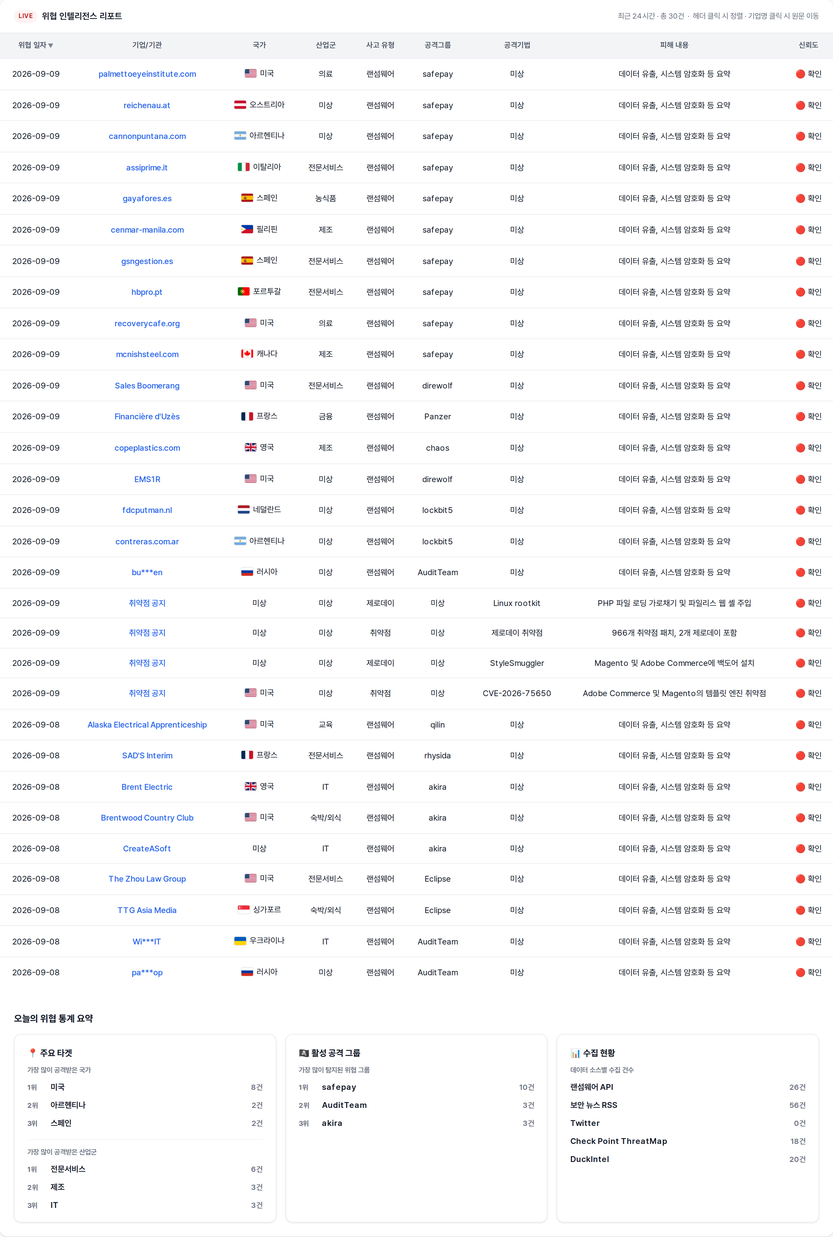
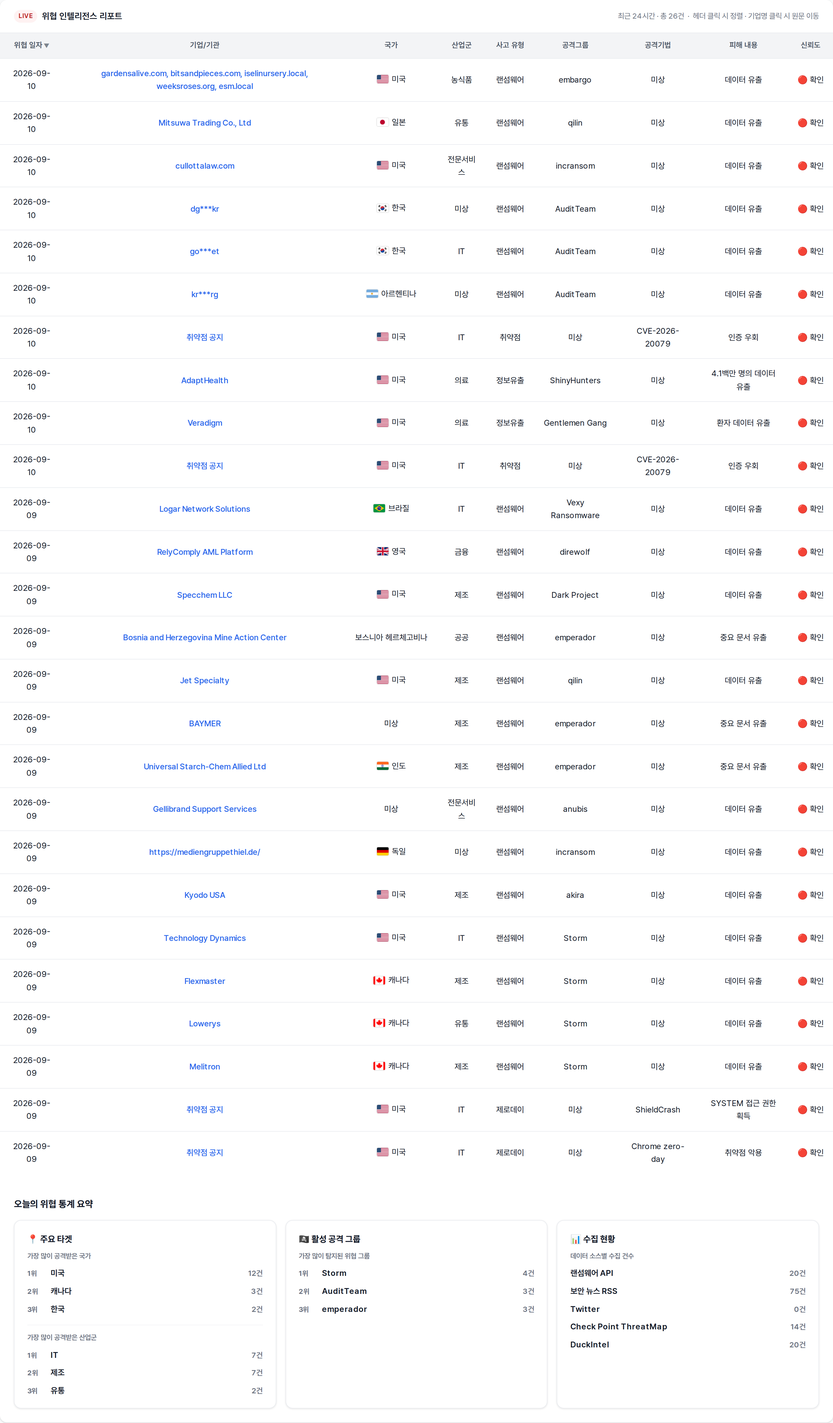
deploy: 9c533ad8fcaa3f846a31aadab046301a26f1192c

diff --git a/index.html b/index.html
@@ -3,7 +3,7 @@
 <head>
   <meta charset="UTF-8" />
   <meta name="viewport" content="width=device-width, initial-scale=1.0" />
-  <title>🚨 2026년 09월 09일 국내/해외 사이버 위협 현황</title>
+  <title>🚨 2026년 09월 10일 국내/해외 사이버 위협 현황</title>
   <link rel="preconnect" href="https://cdn.jsdelivr.net" />
   <link href="https://cdn.jsdelivr.net/gh/orioncactus/pretendard/dist/web/static/pretendard.css" rel="stylesheet" />
   <style>
@@ -253,7 +253,7 @@
 </head>
 <body>
   <div class="page-header">
-    <h1 class="page-title">🚨 2026년 09월 09일 국내/해외 사이버 위협 현황</h1>
+    <h1 class="page-title">🚨 2026년 09월 10일 국내/해외 사이버 위협 현황</h1>
   </div>
 
   <div class="dashboard">
@@ -261,42 +261,38 @@
     <div class="card-header">
       <span class="badge">LIVE</span>
       <span class="card-title">위협 인텔리전스 리포트</span>
-      <span class="card-count">최근 24시간 · 총 30건 &nbsp;·&nbsp; 헤더 클릭 시 정렬 · 기업명 클릭 시 원문 이동</span>
+      <span class="card-count">최근 24시간 · 총 26건 &nbsp;·&nbsp; 헤더 클릭 시 정렬 · 기업명 클릭 시 원문 이동</span>
     </div>
     <div class="table-wrap" style="overflow-x: auto; -webkit-overflow-scrolling: touch;">
       <table id="threat-table">
         <thead><tr><th onclick="sortTable(0)" data-col="0" class="sort-desc">위협 일자</th><th onclick="sortTable(1)" data-col="1">기업/기관</th><th onclick="sortTable(2)" data-col="2">국가</th><th onclick="sortTable(3)" data-col="3">산업군</th><th onclick="sortTable(4)" data-col="4">사고 유형</th><th onclick="sortTable(5)" data-col="5">공격그룹</th><th onclick="sortTable(6)" data-col="6">공격기법</th><th onclick="sortTable(7)" data-col="7">피해 내용</th><th onclick="sortTable(8)" data-col="8">신뢰도</th></tr></thead>
         <tbody>
-<tr><td>2026-09-09</td><td><a href="https://www.ransomware.live/id/cGFsbWV0dG9leWVpbnN0aXR1dGUuY29tQHNhZmVwYXk=" target="_blank" rel="noopener noreferrer">palmettoeyeinstitute.com</a></td><td class="country"><span class="country-cell"><img class="flag" src="https://flagcdn.com/w40/us.png" alt="미국" width="20" height="14" />미국</span></td><td>의료</td><td>랜섬웨어</td><td>safepay</td><td>미상</td><td>데이터 유출, 시스템 암호화 등 요약</td><td>🔴 확인</td></tr>
-<tr><td>2026-09-09</td><td><a href="https://www.ransomware.live/id/cmVpY2hlbmF1LmF0QHNhZmVwYXk=" target="_blank" rel="noopener noreferrer">reichenau.at</a></td><td class="country"><span class="country-cell"><img class="flag" src="https://flagcdn.com/w40/at.png" alt="오스트리아" width="20" height="14" />오스트리아</span></td><td>미상</td><td>랜섬웨어</td><td>safepay</td><td>미상</td><td>데이터 유출, 시스템 암호화 등 요약</td><td>🔴 확인</td></tr>
-<tr><td>2026-09-09</td><td><a href="https://www.ransomware.live/id/Y2Fubm9ucHVudGFuYS5jb21Ac2FmZXBheQ==" target="_blank" rel="noopener noreferrer">cannonpuntana.com</a></td><td class="country"><span class="country-cell"><img class="flag" src="https://flagcdn.com/w40/ar.png" alt="아르헨티나" width="20" height="14" />아르헨티나</span></td><td>미상</td><td>랜섬웨어</td><td>safepay</td><td>미상</td><td>데이터 유출, 시스템 암호화 등 요약</td><td>🔴 확인</td></tr>
-<tr><td>2026-09-09</td><td><a href="https://www.ransomware.live/id/YXNzaXByaW1lLml0QHNhZmVwYXk=" target="_blank" rel="noopener noreferrer">assiprime.it</a></td><td class="country"><span class="country-cell"><img class="flag" src="https://flagcdn.com/w40/it.png" alt="이탈리아" width="20" height="14" />이탈리아</span></td><td>전문서비스</td><td>랜섬웨어</td><td>safepay</td><td>미상</td><td>데이터 유출, 시스템 암호화 등 요약</td><td>🔴 확인</td></tr>
-<tr><td>2026-09-09</td><td><a href="https://www.ransomware.live/id/Z2F5YWZvcmVzLmVzQHNhZmVwYXk=" target="_blank" rel="noopener noreferrer">gayafores.es</a></td><td class="country"><span class="country-cell"><img class="flag" src="https://flagcdn.com/w40/es.png" alt="스페인" width="20" height="14" />스페인</span></td><td>농식품</td><td>랜섬웨어</td><td>safepay</td><td>미상</td><td>데이터 유출, 시스템 암호화 등 요약</td><td>🔴 확인</td></tr>
-<tr><td>2026-09-09</td><td><a href="https://www.ransomware.live/id/Y2VubWFyLW1hbmlsYS5jb21Ac2FmZXBheQ==" target="_blank" rel="noopener noreferrer">cenmar-manila.com</a></td><td class="country"><span class="country-cell"><img class="flag" src="https://flagcdn.com/w40/ph.png" alt="필리핀" width="20" height="14" />필리핀</span></td><td>제조</td><td>랜섬웨어</td><td>safepay</td><td>미상</td><td>데이터 유출, 시스템 암호화 등 요약</td><td>🔴 확인</td></tr>
-<tr><td>2026-09-09</td><td><a href="https://www.ransomware.live/id/Z3NuZ2VzdGlvbi5lc0BzYWZlcGF5" target="_blank" rel="noopener noreferrer">gsngestion.es</a></td><td class="country"><span class="country-cell"><img class="flag" src="https://flagcdn.com/w40/es.png" alt="스페인" width="20" height="14" />스페인</span></td><td>전문서비스</td><td>랜섬웨어</td><td>safepay</td><td>미상</td><td>데이터 유출, 시스템 암호화 등 요약</td><td>🔴 확인</td></tr>
-<tr><td>2026-09-09</td><td><a href="https://www.ransomware.live/id/aGJwcm8ucHRAc2FmZXBheQ==" target="_blank" rel="noopener noreferrer">hbpro.pt</a></td><td class="country"><span class="country-cell"><img class="flag" src="https://flagcdn.com/w40/pt.png" alt="포르투갈" width="20" height="14" />포르투갈</span></td><td>전문서비스</td><td>랜섬웨어</td><td>safepay</td><td>미상</td><td>데이터 유출, 시스템 암호화 등 요약</td><td>🔴 확인</td></tr>
-<tr><td>2026-09-09</td><td><a href="https://www.ransomware.live/id/cmVjb3ZlcnljYWZlLm9yZ0BzYWZlcGF5" target="_blank" rel="noopener noreferrer">recoverycafe.org</a></td><td class="country"><span class="country-cell"><img class="flag" src="https://flagcdn.com/w40/us.png" alt="미국" width="20" height="14" />미국</span></td><td>의료</td><td>랜섬웨어</td><td>safepay</td><td>미상</td><td>데이터 유출, 시스템 암호화 등 요약</td><td>🔴 확인</td></tr>
-<tr><td>2026-09-09</td><td><a href="https://www.ransomware.live/id/bWNuaXNoc3RlZWwuY29tQHNhZmVwYXk=" target="_blank" rel="noopener noreferrer">mcnishsteel.com</a></td><td class="country"><span class="country-cell"><img class="flag" src="https://flagcdn.com/w40/ca.png" alt="캐나다" width="20" height="14" />캐나다</span></td><td>제조</td><td>랜섬웨어</td><td>safepay</td><td>미상</td><td>데이터 유출, 시스템 암호화 등 요약</td><td>🔴 확인</td></tr>
-<tr><td>2026-09-09</td><td><a href="https://www.ransomware.live/id/U2FsZXMgQm9vbWVyYW5nQGRpcmV3b2xm" target="_blank" rel="noopener noreferrer">Sales Boomerang</a></td><td class="country"><span class="country-cell"><img class="flag" src="https://flagcdn.com/w40/us.png" alt="미국" width="20" height="14" />미국</span></td><td>전문서비스</td><td>랜섬웨어</td><td>direwolf</td><td>미상</td><td>데이터 유출, 시스템 암호화 등 요약</td><td>🔴 확인</td></tr>
-<tr><td>2026-09-09</td><td><a href="https://www.ransomware.live/id/RmluYW5jacOocmUgZCdVesOoc0BQYW56ZXI=" target="_blank" rel="noopener noreferrer">Financière d&#x27;Uzès</a></td><td class="country"><span class="country-cell"><img class="flag" src="https://flagcdn.com/w40/fr.png" alt="프랑스" width="20" height="14" />프랑스</span></td><td>금융</td><td>랜섬웨어</td><td>Panzer</td><td>미상</td><td>데이터 유출, 시스템 암호화 등 요약</td><td>🔴 확인</td></tr>
-<tr><td>2026-09-09</td><td><a href="https://www.ransomware.live/id/Y29wZXBsYXN0aWNzLmNvbUBjaGFvcw==" target="_blank" rel="noopener noreferrer">copeplastics.com</a></td><td class="country"><span class="country-cell"><img class="flag" src="https://flagcdn.com/w40/gb.png" alt="영국" width="20" height="14" />영국</span></td><td>제조</td><td>랜섬웨어</td><td>chaos</td><td>미상</td><td>데이터 유출, 시스템 암호화 등 요약</td><td>🔴 확인</td></tr>
-<tr><td>2026-09-09</td><td><a href="https://www.ransomware.live/id/RU1TMVJAZGlyZXdvbGY=" target="_blank" rel="noopener noreferrer">EMS1R</a></td><td class="country"><span class="country-cell"><img class="flag" src="https://flagcdn.com/w40/us.png" alt="미국" width="20" height="14" />미국</span></td><td>미상</td><td>랜섬웨어</td><td>direwolf</td><td>미상</td><td>데이터 유출, 시스템 암호화 등 요약</td><td>🔴 확인</td></tr>
-<tr><td>2026-09-09</td><td><a href="https://www.ransomware.live/id/ZmRjcHV0bWFuLm5sQGxvY2tiaXQ1" target="_blank" rel="noopener noreferrer">fdcputman.nl</a></td><td class="country"><span class="country-cell"><img class="flag" src="https://flagcdn.com/w40/nl.png" alt="네덜란드" width="20" height="14" />네덜란드</span></td><td>미상</td><td>랜섬웨어</td><td>lockbit5</td><td>미상</td><td>데이터 유출, 시스템 암호화 등 요약</td><td>🔴 확인</td></tr>
-<tr><td>2026-09-09</td><td><a href="https://www.ransomware.live/id/Y29udHJlcmFzLmNvbS5hckBsb2NrYml0NQ==" target="_blank" rel="noopener noreferrer">contreras.com.ar</a></td><td class="country"><span class="country-cell"><img class="flag" src="https://flagcdn.com/w40/ar.png" alt="아르헨티나" width="20" height="14" />아르헨티나</span></td><td>미상</td><td>랜섬웨어</td><td>lockbit5</td><td>미상</td><td>데이터 유출, 시스템 암호화 등 요약</td><td>🔴 확인</td></tr>
-<tr><td>2026-09-09</td><td><a href="https://www.ransomware.live/id/YnUqKiplbkBBdWRpdFRlYW0=" target="_blank" rel="noopener noreferrer">bu***en</a></td><td class="country"><span class="country-cell"><img class="flag" src="https://flagcdn.com/w40/ru.png" alt="러시아" width="20" height="14" />러시아</span></td><td>미상</td><td>랜섬웨어</td><td>AuditTeam</td><td>미상</td><td>데이터 유출, 시스템 암호화 등 요약</td><td>🔴 확인</td></tr>
-<tr><td>2026-09-09</td><td><a href="https://www.bleepingcomputer.com/news/security/hackers-breach-f5-big-ip-apm-devices-to-deploy-linux-rootkit/" target="_blank" rel="noopener noreferrer">취약점 공지</a></td><td class="country"><span class="country-cell">미상</span></td><td>미상</td><td>제로데이</td><td>미상</td><td>Linux rootkit</td><td>PHP 파일 로딩 가로채기 및 파일리스 웹 셸 주입</td><td>🔴 확인</td></tr>
-<tr><td>2026-09-09</td><td><a href="https://www.bleepingcomputer.com/news/microsoft/microsoft-september-2026-patch-tuesday-fixes-966-flaws-2-zero-days/" target="_blank" rel="noopener noreferrer">취약점 공지</a></td><td class="country"><span class="country-cell">미상</span></td><td>미상</td><td>취약점</td><td>미상</td><td>제로데이 취약점</td><td>966개 취약점 패치, 2개 제로데이 포함</td><td>🔴 확인</td></tr>
-<tr><td>2026-09-09</td><td><a href="https://www.bleepingcomputer.com/news/security/adobe-fixes-critical-magento-zero-day-exploited-to-backdoor-servers/" target="_blank" rel="noopener noreferrer">취약점 공지</a></td><td class="country"><span class="country-cell">미상</span></td><td>미상</td><td>제로데이</td><td>미상</td><td>StyleSmuggler</td><td>Magento 및 Adobe Commerce에 백도어 설치</td><td>🔴 확인</td></tr>
-<tr><td>2026-09-09</td><td><a href="https://nvd.nist.gov/vuln/detail/CVE-2026-75650" target="_blank" rel="noopener noreferrer">취약점 공지</a></td><td class="country"><span class="country-cell"><img class="flag" src="https://flagcdn.com/w40/us.png" alt="미국" width="20" height="14" />미국</span></td><td>미상</td><td>취약점</td><td>미상</td><td>CVE-2026-75650</td><td>Adobe Commerce 및 Magento의 템플릿 엔진 취약점</td><td>🔴 확인</td></tr>
-<tr><td>2026-09-08</td><td><a href="https://www.ransomware.live/id/QWxhc2thIEVsZWN0cmljYWwgQXBwcmVudGljZXNoaXBAcWlsaW4=" target="_blank" rel="noopener noreferrer">Alaska Electrical Apprenticeship</a></td><td class="country"><span class="country-cell"><img class="flag" src="https://flagcdn.com/w40/us.png" alt="미국" width="20" height="14" />미국</span></td><td>교육</td><td>랜섬웨어</td><td>qilin</td><td>미상</td><td>데이터 유출, 시스템 암호화 등 요약</td><td>🔴 확인</td></tr>
-<tr><td>2026-09-08</td><td><a href="https://www.ransomware.live/id/U0FEJ1MgSW50ZXJpbUByaHlzaWRh" target="_blank" rel="noopener noreferrer">SAD&#x27;S Interim</a></td><td class="country"><span class="country-cell"><img class="flag" src="https://flagcdn.com/w40/fr.png" alt="프랑스" width="20" height="14" />프랑스</span></td><td>전문서비스</td><td>랜섬웨어</td><td>rhysida</td><td>미상</td><td>데이터 유출, 시스템 암호화 등 요약</td><td>🔴 확인</td></tr>
-<tr><td>2026-09-08</td><td><a href="https://www.ransomware.live/id/QnJlbnQgRWxlY3RyaWNAYWtpcmE=" target="_blank" rel="noopener noreferrer">Brent Electric</a></td><td class="country"><span class="country-cell"><img class="flag" src="https://flagcdn.com/w40/gb.png" alt="영국" width="20" height="14" />영국</span></td><td>IT</td><td>랜섬웨어</td><td>akira</td><td>미상</td><td>데이터 유출, 시스템 암호화 등 요약</td><td>🔴 확인</td></tr>
-<tr><td>2026-09-08</td><td><a href="https://www.ransomware.live/id/QnJlbnR3b29kIENvdW50cnkgQ2x1YkBha2lyYQ==" target="_blank" rel="noopener noreferrer">Brentwood Country Club</a></td><td class="country"><span class="country-cell"><img class="flag" src="https://flagcdn.com/w40/us.png" alt="미국" width="20" height="14" />미국</span></td><td>숙박/외식</td><td>랜섬웨어</td><td>akira</td><td>미상</td><td>데이터 유출, 시스템 암호화 등 요약</td><td>🔴 확인</td></tr>
-<tr><td>2026-09-08</td><td><a href="https://www.ransomware.live/id/Q3JlYXRlQVNvZnRAYWtpcmE=" target="_blank" rel="noopener noreferrer">CreateASoft</a></td><td class="country"><span class="country-cell">미상</span></td><td>IT</td><td>랜섬웨어</td><td>akira</td><td>미상</td><td>데이터 유출, 시스템 암호화 등 요약</td><td>🔴 확인</td></tr>
-<tr><td>2026-09-08</td><td><a href="https://www.ransomware.live/id/VGhlIFpob3UgTGF3IEdyb3VwQEVjbGlwc2U=" target="_blank" rel="noopener noreferrer">The Zhou Law Group</a></td><td class="country"><span class="country-cell"><img class="flag" src="https://flagcdn.com/w40/us.png" alt="미국" width="20" height="14" />미국</span></td><td>전문서비스</td><td>랜섬웨어</td><td>Eclipse</td><td>미상</td><td>데이터 유출, 시스템 암호화 등 요약</td><td>🔴 확인</td></tr>
-<tr><td>2026-09-08</td><td><a href="https://www.ransomware.live/id/VFRHIEFzaWEgTWVkaWFARWNsaXBzZQ==" target="_blank" rel="noopener noreferrer">TTG Asia Media</a></td><td class="country"><span class="country-cell"><img class="flag" src="https://flagcdn.com/w40/sg.png" alt="싱가포르" width="20" height="14" />싱가포르</span></td><td>숙박/외식</td><td>랜섬웨어</td><td>Eclipse</td><td>미상</td><td>데이터 유출, 시스템 암호화 등 요약</td><td>🔴 확인</td></tr>
-<tr><td>2026-09-08</td><td><a href="https://www.ransomware.live/id/V2kqKipJVEBBdWRpdFRlYW0=" target="_blank" rel="noopener noreferrer">Wi***IT</a></td><td class="country"><span class="country-cell"><img class="flag" src="https://flagcdn.com/w40/ua.png" alt="우크라이나" width="20" height="14" />우크라이나</span></td><td>IT</td><td>랜섬웨어</td><td>AuditTeam</td><td>미상</td><td>데이터 유출, 시스템 암호화 등 요약</td><td>🔴 확인</td></tr>
-<tr><td>2026-09-08</td><td><a href="https://www.ransomware.live/id/cGEqKipvcEBBdWRpdFRlYW0=" target="_blank" rel="noopener noreferrer">pa***op</a></td><td class="country"><span class="country-cell"><img class="flag" src="https://flagcdn.com/w40/ru.png" alt="러시아" width="20" height="14" />러시아</span></td><td>미상</td><td>랜섬웨어</td><td>AuditTeam</td><td>미상</td><td>데이터 유출, 시스템 암호화 등 요약</td><td>🔴 확인</td></tr>
+<tr><td>2026-09-10</td><td><a href="https://www.ransomware.live/id/Z2FyZGVuc2FsaXZlLmNvbSwgYml0c2FuZHBpZWNlcy5jb20sIGlzZWxpbnVyc2VyeS5sb2NhbCwgd2Vla3Nyb3Nlcy5vcmcsIGVzbS5sb2NhbEBlbWJhcmdv" target="_blank" rel="noopener noreferrer">gardensalive.com, bitsandpieces.com, iselinursery.local, weeksroses.org, esm.local</a></td><td class="country"><span class="country-cell"><img class="flag" src="https://flagcdn.com/w40/us.png" alt="미국" width="20" height="14" />미국</span></td><td>농식품</td><td>랜섬웨어</td><td>embargo</td><td>미상</td><td>데이터 유출</td><td>🔴 확인</td></tr>
+<tr><td>2026-09-10</td><td><a href="https://www.ransomware.live/id/TWl0c3V3YSBUcmFkaW5nIENvLiwgTHRkQHFpbGlu" target="_blank" rel="noopener noreferrer">Mitsuwa Trading Co., Ltd</a></td><td class="country"><span class="country-cell"><img class="flag" src="https://flagcdn.com/w40/jp.png" alt="일본" width="20" height="14" />일본</span></td><td>유통</td><td>랜섬웨어</td><td>qilin</td><td>미상</td><td>데이터 유출</td><td>🔴 확인</td></tr>
+<tr><td>2026-09-10</td><td><a href="https://www.ransomware.live/id/Y3VsbG90dGFsYXcuY29tQGluY3JhbnNvbQ==" target="_blank" rel="noopener noreferrer">cullottalaw.com</a></td><td class="country"><span class="country-cell"><img class="flag" src="https://flagcdn.com/w40/us.png" alt="미국" width="20" height="14" />미국</span></td><td>전문서비스</td><td>랜섬웨어</td><td>incransom</td><td>미상</td><td>데이터 유출</td><td>🔴 확인</td></tr>
+<tr><td>2026-09-10</td><td><a href="https://www.ransomware.live/id/ZGcqKiprckBBdWRpdFRlYW0=" target="_blank" rel="noopener noreferrer">dg***kr</a></td><td class="country"><span class="country-cell"><img class="flag" src="https://flagcdn.com/w40/kr.png" alt="한국" width="20" height="14" />한국</span></td><td>미상</td><td>랜섬웨어</td><td>AuditTeam</td><td>미상</td><td>데이터 유출</td><td>🔴 확인</td></tr>
+<tr><td>2026-09-10</td><td><a href="https://www.ransomware.live/id/Z28qKipldEBBdWRpdFRlYW0=" target="_blank" rel="noopener noreferrer">go***et</a></td><td class="country"><span class="country-cell"><img class="flag" src="https://flagcdn.com/w40/kr.png" alt="한국" width="20" height="14" />한국</span></td><td>IT</td><td>랜섬웨어</td><td>AuditTeam</td><td>미상</td><td>데이터 유출</td><td>🔴 확인</td></tr>
+<tr><td>2026-09-10</td><td><a href="https://www.ransomware.live/id/a3IqKipyZ0BBdWRpdFRlYW0=" target="_blank" rel="noopener noreferrer">kr***rg</a></td><td class="country"><span class="country-cell"><img class="flag" src="https://flagcdn.com/w40/ar.png" alt="아르헨티나" width="20" height="14" />아르헨티나</span></td><td>미상</td><td>랜섬웨어</td><td>AuditTeam</td><td>미상</td><td>데이터 유출</td><td>🔴 확인</td></tr>
+<tr><td>2026-09-10</td><td><a href="https://www.bleepingcomputer.com/news/security/cisco-confirms-cve-2026-20079-secure-fmc-flaw-exploited-in-attacks/" target="_blank" rel="noopener noreferrer">취약점 공지</a></td><td class="country"><span class="country-cell"><img class="flag" src="https://flagcdn.com/w40/us.png" alt="미국" width="20" height="14" />미국</span></td><td>IT</td><td>취약점</td><td>미상</td><td>CVE-2026-20079</td><td>인증 우회</td><td>🔴 확인</td></tr>
+<tr><td>2026-09-10</td><td><a href="https://www.bleepingcomputer.com/news/security/adapthealth-confirms-41-million-people-exposed-in-july-cyberattack/" target="_blank" rel="noopener noreferrer">AdaptHealth</a></td><td class="country"><span class="country-cell"><img class="flag" src="https://flagcdn.com/w40/us.png" alt="미국" width="20" height="14" />미국</span></td><td>의료</td><td>정보유출</td><td>ShinyHunters</td><td>미상</td><td>4.1백만 명의 데이터 유출</td><td>🔴 확인</td></tr>
+<tr><td>2026-09-10</td><td><a href="https://www.bleepingcomputer.com/news/security/veradigm-discloses-patient-data-breach-after-gentlemen-gang-claims-attack/" target="_blank" rel="noopener noreferrer">Veradigm</a></td><td class="country"><span class="country-cell"><img class="flag" src="https://flagcdn.com/w40/us.png" alt="미국" width="20" height="14" />미국</span></td><td>의료</td><td>정보유출</td><td>Gentlemen Gang</td><td>미상</td><td>환자 데이터 유출</td><td>🔴 확인</td></tr>
+<tr><td>2026-09-10</td><td><a href="https://nvd.nist.gov/vuln/detail/CVE-2026-20079" target="_blank" rel="noopener noreferrer">취약점 공지</a></td><td class="country"><span class="country-cell"><img class="flag" src="https://flagcdn.com/w40/us.png" alt="미국" width="20" height="14" />미국</span></td><td>IT</td><td>취약점</td><td>미상</td><td>CVE-2026-20079</td><td>인증 우회</td><td>🔴 확인</td></tr>
+<tr><td>2026-09-09</td><td><a href="https://www.ransomware.live/id/TG9nYXIgTmV0d29yayBTb2x1dGlvbnNAVmV4eSBSYW5zb213YXJl" target="_blank" rel="noopener noreferrer">Logar Network Solutions</a></td><td class="country"><span class="country-cell"><img class="flag" src="https://flagcdn.com/w40/br.png" alt="브라질" width="20" height="14" />브라질</span></td><td>IT</td><td>랜섬웨어</td><td>Vexy Ransomware</td><td>미상</td><td>데이터 유출</td><td>🔴 확인</td></tr>
+<tr><td>2026-09-09</td><td><a href="https://www.ransomware.live/id/UmVseUNvbXBseSBBTUwgUGxhdGZvcm1AZGlyZXdvbGY=" target="_blank" rel="noopener noreferrer">RelyComply AML Platform</a></td><td class="country"><span class="country-cell"><img class="flag" src="https://flagcdn.com/w40/gb.png" alt="영국" width="20" height="14" />영국</span></td><td>금융</td><td>랜섬웨어</td><td>direwolf</td><td>미상</td><td>데이터 유출</td><td>🔴 확인</td></tr>
+<tr><td>2026-09-09</td><td><a href="https://www.ransomware.live/id/U3BlY2NoZW0gTExDQERhcmsgUHJvamVjdA==" target="_blank" rel="noopener noreferrer">Specchem LLC</a></td><td class="country"><span class="country-cell"><img class="flag" src="https://flagcdn.com/w40/us.png" alt="미국" width="20" height="14" />미국</span></td><td>제조</td><td>랜섬웨어</td><td>Dark Project</td><td>미상</td><td>데이터 유출</td><td>🔴 확인</td></tr>
+<tr><td>2026-09-09</td><td><a href="https://www.ransomware.live/id/Qm9zbmlhIGFuZCBIZXJ6ZWdvdmluYSBNaW5lIEFjdGlvbiBDZW50ZXJAZW1wZXJhZG9y" target="_blank" rel="noopener noreferrer">Bosnia and Herzegovina Mine Action Center</a></td><td class="country"><span class="country-cell">보스니아 헤르체고비나</span></td><td>공공</td><td>랜섬웨어</td><td>emperador</td><td>미상</td><td>중요 문서 유출</td><td>🔴 확인</td></tr>
+<tr><td>2026-09-09</td><td><a href="https://www.ransomware.live/id/SmV0IFNwZWNpYWx0eUBxaWxpbg==" target="_blank" rel="noopener noreferrer">Jet Specialty</a></td><td class="country"><span class="country-cell"><img class="flag" src="https://flagcdn.com/w40/us.png" alt="미국" width="20" height="14" />미국</span></td><td>제조</td><td>랜섬웨어</td><td>qilin</td><td>미상</td><td>데이터 유출</td><td>🔴 확인</td></tr>
+<tr><td>2026-09-09</td><td><a href="https://www.ransomware.live/id/QkFZTUVSQGVtcGVyYWRvcg==" target="_blank" rel="noopener noreferrer">BAYMER</a></td><td class="country"><span class="country-cell">미상</span></td><td>제조</td><td>랜섬웨어</td><td>emperador</td><td>미상</td><td>중요 문서 유출</td><td>🔴 확인</td></tr>
+<tr><td>2026-09-09</td><td><a href="https://www.ransomware.live/id/VW5pdmVyc2FsIFN0YXJjaC1DaGVtIEFsbGllZCBMdGRAZW1wZXJhZG9y" target="_blank" rel="noopener noreferrer">Universal Starch-Chem Allied Ltd</a></td><td class="country"><span class="country-cell"><img class="flag" src="https://flagcdn.com/w40/in.png" alt="인도" width="20" height="14" />인도</span></td><td>제조</td><td>랜섬웨어</td><td>emperador</td><td>미상</td><td>중요 문서 유출</td><td>🔴 확인</td></tr>
+<tr><td>2026-09-09</td><td><a href="https://www.ransomware.live/id/R2VsbGlicmFuZCBTdXBwb3J0IFNlcnZpY2VzQGFudWJpcw==" target="_blank" rel="noopener noreferrer">Gellibrand Support Services</a></td><td class="country"><span class="country-cell">미상</span></td><td>전문서비스</td><td>랜섬웨어</td><td>anubis</td><td>미상</td><td>데이터 유출</td><td>🔴 확인</td></tr>
+<tr><td>2026-09-09</td><td><a href="https://www.ransomware.live/id/aHR0cHM6Ly9tZWRpZW5ncnVwcGV0aGllbC5kZS9AaW5jcmFuc29t" target="_blank" rel="noopener noreferrer">https://mediengruppethiel.de/</a></td><td class="country"><span class="country-cell"><img class="flag" src="https://flagcdn.com/w40/de.png" alt="독일" width="20" height="14" />독일</span></td><td>미상</td><td>랜섬웨어</td><td>incransom</td><td>미상</td><td>데이터 유출</td><td>🔴 확인</td></tr>
+<tr><td>2026-09-09</td><td><a href="https://www.ransomware.live/id/S3lvZG8gVVNBQGFraXJh" target="_blank" rel="noopener noreferrer">Kyodo USA</a></td><td class="country"><span class="country-cell"><img class="flag" src="https://flagcdn.com/w40/us.png" alt="미국" width="20" height="14" />미국</span></td><td>제조</td><td>랜섬웨어</td><td>akira</td><td>미상</td><td>데이터 유출</td><td>🔴 확인</td></tr>
+<tr><td>2026-09-09</td><td><a href="https://www.ransomware.live/id/VGVjaG5vbG9neSBEeW5hbWljc0BTdG9ybQ==" target="_blank" rel="noopener noreferrer">Technology Dynamics</a></td><td class="country"><span class="country-cell"><img class="flag" src="https://flagcdn.com/w40/us.png" alt="미국" width="20" height="14" />미국</span></td><td>IT</td><td>랜섬웨어</td><td>Storm</td><td>미상</td><td>데이터 유출</td><td>🔴 확인</td></tr>
+<tr><td>2026-09-09</td><td><a href="https://www.ransomware.live/id/RmxleG1hc3RlckBTdG9ybQ==" target="_blank" rel="noopener noreferrer">Flexmaster</a></td><td class="country"><span class="country-cell"><img class="flag" src="https://flagcdn.com/w40/ca.png" alt="캐나다" width="20" height="14" />캐나다</span></td><td>제조</td><td>랜섬웨어</td><td>Storm</td><td>미상</td><td>데이터 유출</td><td>🔴 확인</td></tr>
+<tr><td>2026-09-09</td><td><a href="https://www.ransomware.live/id/TG93ZXJ5c0BTdG9ybQ==" target="_blank" rel="noopener noreferrer">Lowerys</a></td><td class="country"><span class="country-cell"><img class="flag" src="https://flagcdn.com/w40/ca.png" alt="캐나다" width="20" height="14" />캐나다</span></td><td>유통</td><td>랜섬웨어</td><td>Storm</td><td>미상</td><td>데이터 유출</td><td>🔴 확인</td></tr>
+<tr><td>2026-09-09</td><td><a href="https://www.ransomware.live/id/TWVsaXRyb25AU3Rvcm0=" target="_blank" rel="noopener noreferrer">Melitron</a></td><td class="country"><span class="country-cell"><img class="flag" src="https://flagcdn.com/w40/ca.png" alt="캐나다" width="20" height="14" />캐나다</span></td><td>제조</td><td>랜섬웨어</td><td>Storm</td><td>미상</td><td>데이터 유출</td><td>🔴 확인</td></tr>
+<tr><td>2026-09-09</td><td><a href="https://www.bleepingcomputer.com/news/security/new-microsoft-defender-shieldcrash-zero-day-grants-system-access/" target="_blank" rel="noopener noreferrer">취약점 공지</a></td><td class="country"><span class="country-cell"><img class="flag" src="https://flagcdn.com/w40/us.png" alt="미국" width="20" height="14" />미국</span></td><td>IT</td><td>제로데이</td><td>미상</td><td>ShieldCrash</td><td>SYSTEM 접근 권한 획득</td><td>🔴 확인</td></tr>
+<tr><td>2026-09-09</td><td><a href="https://www.bleepingcomputer.com/news/security/google-patches-seventh-chrome-zero-day-exploited-in-attacks-this-year/" target="_blank" rel="noopener noreferrer">취약점 공지</a></td><td class="country"><span class="country-cell"><img class="flag" src="https://flagcdn.com/w40/us.png" alt="미국" width="20" height="14" />미국</span></td><td>IT</td><td>제로데이</td><td>미상</td><td>Chrome zero-day</td><td>취약점 악용</td><td>🔴 확인</td></tr>
         </tbody>
       </table>
     </div>
@@ -307,19 +303,19 @@
       <article class="stat-card">
         <h3 class="stat-title">📍 주요 타겟</h3>
         <p class="stat-subtitle">가장 많이 공격받은 국가</p>
-        <ol class="stat-list"><li><span class="stat-rank">1위</span><span class="stat-name">미국</span><span class="stat-count">8건</span></li><li><span class="stat-rank">2위</span><span class="stat-name">아르헨티나</span><span class="stat-count">2건</span></li><li><span class="stat-rank">3위</span><span class="stat-name">스페인</span><span class="stat-count">2건</span></li></ol>
+        <ol class="stat-list"><li><span class="stat-rank">1위</span><span class="stat-name">미국</span><span class="stat-count">12건</span></li><li><span class="stat-rank">2위</span><span class="stat-name">캐나다</span><span class="stat-count">3건</span></li><li><span class="stat-rank">3위</span><span class="stat-name">한국</span><span class="stat-count">2건</span></li></ol>
         <p class="stat-subtitle stat-subtitle-gap">가장 많이 공격받은 산업군</p>
-        <ol class="stat-list"><li><span class="stat-rank">1위</span><span class="stat-name">전문서비스</span><span class="stat-count">6건</span></li><li><span class="stat-rank">2위</span><span class="stat-name">제조</span><span class="stat-count">3건</span></li><li><span class="stat-rank">3위</span><span class="stat-name">IT</span><span class="stat-count">3건</span></li></ol>
+        <ol class="stat-list"><li><span class="stat-rank">1위</span><span class="stat-name">IT</span><span class="stat-count">7건</span></li><li><span class="stat-rank">2위</span><span class="stat-name">제조</span><span class="stat-count">7건</span></li><li><span class="stat-rank">3위</span><span class="stat-name">유통</span><span class="stat-count">2건</span></li></ol>
       </article>
       <article class="stat-card">
         <h3 class="stat-title">🏴☠ 활성 공격 그룹</h3>
         <p class="stat-subtitle">가장 많이 탐지된 위협 그룹</p>
-        <ol class="stat-list"><li><span class="stat-rank">1위</span><span class="stat-name">safepay</span><span class="stat-count">10건</span></li><li><span class="stat-rank">2위</span><span class="stat-name">AuditTeam</span><span class="stat-count">3건</span></li><li><span class="stat-rank">3위</span><span class="stat-name">akira</span><span class="stat-count">3건</span></li></ol>
+        <ol class="stat-list"><li><span class="stat-rank">1위</span><span class="stat-name">Storm</span><span class="stat-count">4건</span></li><li><span class="stat-rank">2위</span><span class="stat-name">AuditTeam</span><span class="stat-count">3건</span></li><li><span class="stat-rank">3위</span><span class="stat-name">emperador</span><span class="stat-count">3건</span></li></ol>
       </article>
       <article class="stat-card">
         <h3 class="stat-title">📊 수집 현황</h3>
         <p class="stat-subtitle">데이터 소스별 수집 건수</p>
-        <ul class="stat-list stat-sources"><li><span class="stat-name">랜섬웨어 API</span><span class="stat-count">26건</span></li><li><span class="stat-name">보안 뉴스 RSS</span><span class="stat-count">56건</span></li><li><span class="stat-name">Twitter</span><span class="stat-count">0건</span></li><li><span class="stat-name">Check Point ThreatMap</span><span class="stat-count">18건</span></li><li><span class="stat-name">DuckIntel</span><span class="stat-count">20건</span></li></ul>
+        <ul class="stat-list stat-sources"><li><span class="stat-name">랜섬웨어 API</span><span class="stat-count">20건</span></li><li><span class="stat-name">보안 뉴스 RSS</span><span class="stat-count">75건</span></li><li><span class="stat-name">Twitter</span><span class="stat-count">0건</span></li><li><span class="stat-name">Check Point ThreatMap</span><span class="stat-count">14건</span></li><li><span class="stat-name">DuckIntel</span><span class="stat-count">20건</span></li></ul>
       </article>
     </div>
   </section>
